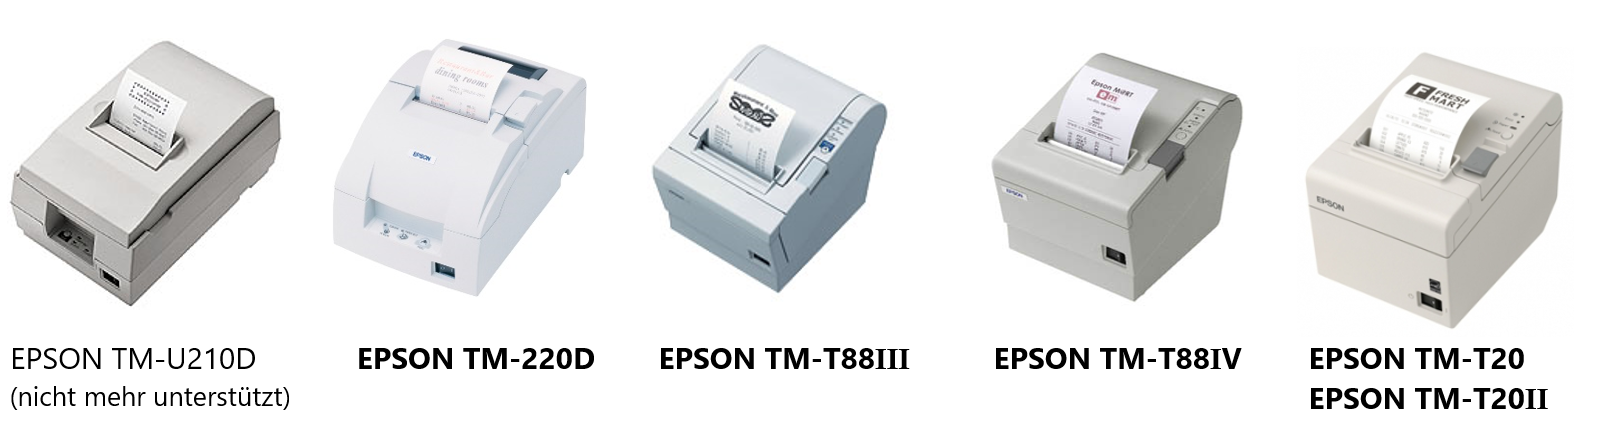
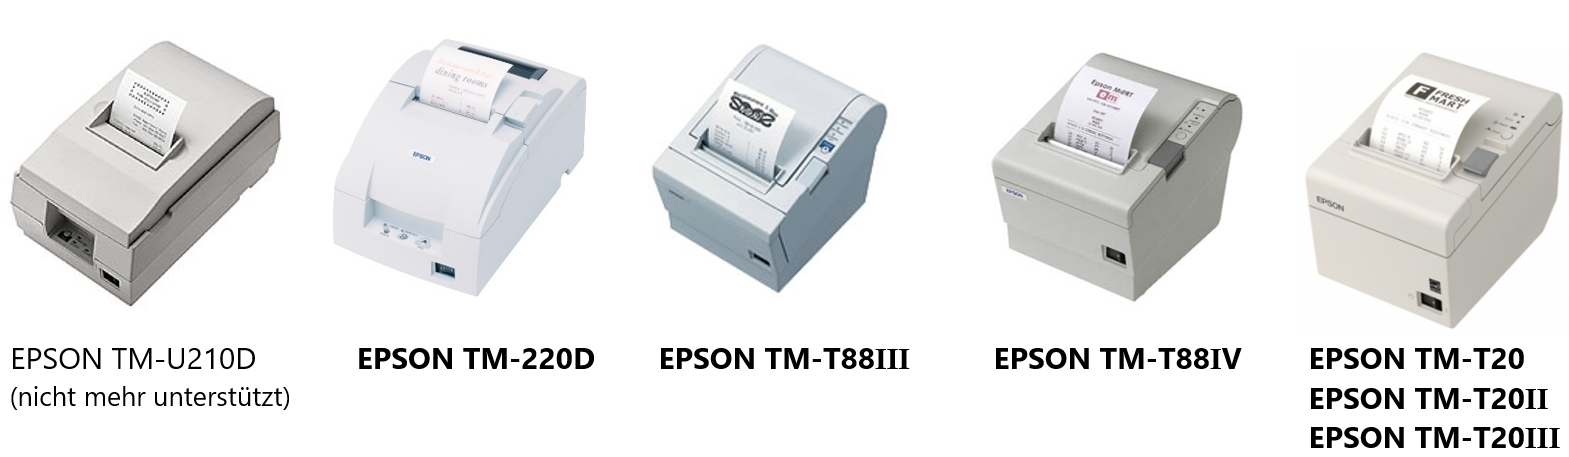
improve help pages

diff --git a/user/pages/06.etiketten-briefe/02.spielbarcodes-drucken/docs.de.md b/user/pages/06.etiketten-briefe/02.spielbarcodes-drucken/docs.de.md
@@ -15,7 +15,7 @@ Das **Barcode Drucken** Fenster kann über die **Übersicht => Drucken => Barcod
 Suchen Sie die Spiele mit Hilfe der gelben Suchfelder in der Spielliste und markieren Sie die gewünschten Spiele. Mehrere Spiele auf einmal können Sie durch Klicken und gleichzeitiges Halten der Taste **[Ctrl]** oder **[Shift]** auswählen.
 
 Die markierten Spiele können Sie durch Drücken des Pfeil Buttons in die Barcode Druckliste aufnehmen.   
-Mit den Buttons <span class="btn">Alle auswählen</span> und <span class="btn">Auswahl aufheben</span> können alle Elemente in der Liste an bzw. abwählt werden.
+Mit den Buttons <span class="btn-lupo">Alle auswählen</span> und <span class="btn-lupo">Auswahl aufheben</span> können alle Elemente in der Liste an bzw. abwählt werden.
 
 Folgende Sortier-Möglichkeiten stehen zur Verfügung:
 
@@ -24,11 +24,11 @@ Folgende Sortier-Möglichkeiten stehen zur Verfügung:
 
 !!! Verwenden Sie im Suchfeld das **Platzhalterzeichen * (Stern)** für beliebig viele, das **? (Fragezeichen)** für genau ein unbekanntes Zeichen. Beispiel: Wenn Sie alle Spiele mit dem Kaufdatum im Februar 2014 anzeigen wollen, können Sie **??.02.2014** oder ***.02.2014** eingeben.
 
-<span class="btn">Barcodeliste löschen</span> löscht alle in der Druckliste angezeigten Barcodes. Einzelne (oder mehrere) Einträge in der Liste können Sie durch markieren und anschliessendem Drücken von **[Del]** aus der Liste löschen.
+<span class="btn-lupo">Barcodeliste löschen</span> löscht alle in der Druckliste angezeigten Barcodes. Einzelne (oder mehrere) Einträge in der Liste können Sie durch markieren und anschliessendem Drücken von **[Del]** aus der Liste löschen.
 
-<span class="btn">Barcode Drucken</span> druckt die Barcodes der in der Druckliste aufgeführten Spiele auf den Standard-Drucker. Um einen anderen Drucker oder z.B. den manuellen Papiereinzug angeben zu können muss sie Liste in der Seitenansicht angezeigt werden. Wenn Sie den Ausdruck nicht beim ersten Barcode-Etikett beginnen wollen, können Sie das Etikett, bei welchem der Druck gestartet werden soll, in das Textfeld oben links eintragen.
+<span class="btn-lupo">Barcode Drucken</span> druckt die Barcodes der in der Druckliste aufgeführten Spiele auf den Standard-Drucker. Um einen anderen Drucker oder z.B. den manuellen Papiereinzug angeben zu können muss sie Liste in der Seitenansicht angezeigt werden. Wenn Sie den Ausdruck nicht beim ersten Barcode-Etikett beginnen wollen, können Sie das Etikett, bei welchem der Druck gestartet werden soll, in das Textfeld oben links eintragen.
 
-Es können nicht nur Barcodes für bestehende Spiele ausgedruckt werden, sondern für jede x-beliebige Nummer. Wenn Sie den Knopf <span class="btn">Manuelle Barcodes</span> drücken, werden Sie aufgefordert den Nummernbereich für die zu druckenden Strichcodes einzugeben.
+Es können nicht nur Barcodes für bestehende Spiele ausgedruckt werden, sondern für jede x-beliebige Nummer. Wenn Sie den Knopf <span class="btn-lupo">Manuelle Barcodes</span> drücken, werden Sie aufgefordert den Nummernbereich für die zu druckenden Strichcodes einzugeben.
 
 ## Abokarten drucken
 
@@ -40,13 +40,13 @@ Dieses Fenster kann mit **Übersicht => Drucken => Abokarten Drucken** geöffnet
 
 Suchen Sie die Adressen mit Hilfe der gelben Suchfelder unterhalb der Adressliste und markieren Sie die gewünschten Adressen. Mehrere auf einmal können Sie durch Klicken und gleichzeitiges Halten der Taste **[Ctrl]** oder **[Shift]** ausgewählt werden. Die gewählten Adressen können Sie durch Drücken des Pfeil Buttons in die Barcode Druckliste aufnehmen, einzelne Einträge durch einen Doppelklick.
 
-Mit den Buttons <span class="btn">Alle auswählen</span> und <span class="btn">Auswahl aufheben</span> können Sie alle Elemente in der Liste an bzw. abwählen.
+Mit den Buttons <span class="btn-lupo">Alle auswählen</span> und <span class="btn-lupo">Auswahl aufheben</span> können Sie alle Elemente in der Liste an bzw. abwählen.
 
  
 !!! Verwenden Sie im Suchfeld das **Platzhalterzeichen * (Stern)** für beliebig viele, das **? (Fragezeichen)** für genau ein unbekanntes Zeichen. Beispiel: Wenn Sie alle Kunden mit dem Eintrittsdatum im Februar 2014 anzeigen wollen, können Sie **??.02.2014** oder ***.02.2014** eingeben.
 
-<span class="btn">Druckliste löschen</span> löscht alle in der Druckliste angezeigten Barcodes. Einzelne (oder mehrere) Einträge in der Liste können Sie durch markieren und anschliessendem Drücken der Taste **[Del]** aus der Liste löschen.
+<span class="btn-lupo">Druckliste löschen</span> löscht alle in der Druckliste angezeigten Barcodes. Einzelne (oder mehrere) Einträge in der Liste können Sie durch markieren und anschliessendem Drücken der Taste **[Del]** aus der Liste löschen.
 
-<span class="btn">Barcode Drucken</span> druckt die Abokarten der in der Druckliste aufgeführten Adressen auf den Standard-Drucker. Um einen anderen Drucker oder z.B. den manuellen Papiereinzug angeben zu können muss die Liste in der Seitenansicht angezeigt werden. Wenn Sie den Ausdruck nicht beim ersten Barcode-Etikett beginnen wollen, können Sie das Etikett bei welchem der Druck gestartet werden soll in das Textfeld oben rechts eintragen.
+<span class="btn-lupo">Barcode Drucken</span> druckt die Abokarten der in der Druckliste aufgeführten Adressen auf den Standard-Drucker. Um einen anderen Drucker oder z.B. den manuellen Papiereinzug angeben zu können muss die Liste in der Seitenansicht angezeigt werden. Wenn Sie den Ausdruck nicht beim ersten Barcode-Etikett beginnen wollen, können Sie das Etikett bei welchem der Druck gestartet werden soll in das Textfeld oben rechts eintragen.
 
-<span class="btn">Manuelle Barcodes</span> druckt ‚leere' Kunden-Barcodes für Kundennummern die noch gar nicht vergeben sind. Sie werden aufgefordert den Nummernbereich für die zu druckenden Strichcodes einzugeben.
+<span class="btn-lupo">Manuelle Barcodes</span> druckt ‚leere' Kunden-Barcodes für Kundennummern die noch gar nicht vergeben sind. Sie werden aufgefordert den Nummernbereich für die zu druckenden Strichcodes einzugeben.

diff --git a/user/pages/05.spiele-und-adressen/01.spiele-erfassen-und-bearbeiten/docs.de.md b/user/pages/05.spiele-und-adressen/01.spiele-erfassen-und-bearbeiten/docs.de.md
@@ -1,5 +1,5 @@
 ---
-title: 'Spiele, Adressen und Mitarbeiter'
+title: 'Spiele erfassen und bearbeiten'
 taxonomy:
     category:
         - docs
@@ -110,7 +110,7 @@ Zu jedem Spiel kann eine Bilddatei hinterlegt werden. Es ist erlaubt grosse Date
 
 ![bild](../../images/bild.png)
 
-Wenn ein Spielfoto mit der <span class="btn">Google-Bildersuche</span> im Internet gefunden haben, dann kann dieses mit der **rechten Maustaste => Kopieren** in die Zwischenablage kopiert werden. Der Knopf <span class="btn">Zwischenablage</span> speichert dann das Bild automatisch mit dem korrekten Dateinamen. Ein Foto des Spiels mit dem Index 0 gilt für alle Spielkinder.
+Wenn ein Spielfoto mit der <span class="btn-lupo">Google-Bildersuche</span> im Internet gefunden haben, dann kann dieses mit der **rechten Maustaste => Kopieren** in die Zwischenablage kopiert werden. Der Knopf <span class="btn-lupo">Zwischenablage</span> speichert dann das Bild automatisch mit dem korrekten Dateinamen. Ein Foto des Spiels mit dem Index 0 gilt für alle Spielkinder.
 
 #### Jedem Spielkind kann zugeordnet werden:
 
@@ -141,7 +141,7 @@ Das Kaufdatum des Spiels. Es wird automatisch das heutige Datum vorgeschlagen.
 Tragen Sie hier den Kaufpreis des Spiels ein. Dieser Betrag wird für die Berechnung des Restwertes (Kaufpreis – Summe aller Ausleihgebühren) verwendet.
 
 !!! **Hinweis**  
-Der Kaufpreis wird nicht ins Journal eingetragen. Wollen Sie Ihre Spieleinkäufe in der LUPO-Buchhaltung erfassen, dann müssen Sie dies über das Einzelbuchung (mit Vorgaben) Fenster (Öffnen über Übersicht -> Buchhaltung -> Einzelbuchung (mit Vorgaben)) verbuchen
+!!! Der Kaufpreis wird nicht ins Journal eingetragen. Wollen Sie Ihre Spieleinkäufe in der LUPO-Buchhaltung erfassen, dann müssen Sie dies über das Einzelbuchung (mit Vorgaben) Fenster (Öffnen über Übersicht -> Buchhaltung -> Einzelbuchung (mit Vorgaben)) verbuchen
 
 #### Katalogpreis
 
@@ -157,7 +157,7 @@ Dieser Memotext wird im **Ausleihen / Zurücknehmen** Fenster in der Spielliste 
 
 ### Spielinhalt erfassen und drucken
 
-Sie können für jedes Spiel den Spielinhalt (die Ausstattung) erfassen. Schreiben Sie dazu den Text in das dafür vorgesehene Feld oder betätigen Sie den Button <span class="btn">Spielinhalt zusammenbauen</span> um das Spielinhalt-Fenster in Grossansicht angezeigt zu bekommen.
+Sie können für jedes Spiel den Spielinhalt (die Ausstattung) erfassen. Schreiben Sie dazu den Text in das dafür vorgesehene Feld oder betätigen Sie den Button <span class="btn-lupo">Spielinhalt zusammenbauen</span> um das Spielinhalt-Fenster in Grossansicht angezeigt zu bekommen.
 
 In diesem Fenster wird der Spielinhalt erfasst. Sie können den Inhalt ausdrucken um danach am Spiel zu befestigen.
 
@@ -169,11 +169,11 @@ Durch Doppelklicken auf die Inhalt-Datenzeile wird der Eintrag dem Spielinhalt h
 
 Wenn Sie die dortigen Vorgaben nicht benötigen kann der Spielinhalt auch direkt in diesem Fenster erfasst und ausgedruckt werden.
 
-<span class="btn">Drucken</span> / <span class="btn">Anzeigen</span> gibt den Spielinhalt im ausgewählten Format auf den Drucker / Seitenansicht aus. Das standardmässig vorgeschlagene Ausgebeformat ist in den Einstellungen definiert.
+<span class="btn-lupo">Drucken</span> / <span class="btn-lupo">Anzeigen</span> gibt den Spielinhalt im ausgewählten Format auf den Drucker / Seitenansicht aus. Das standardmässig vorgeschlagene Ausgebeformat ist in den Einstellungen definiert.
 
 ### Neues Spiel (Neue Spielfamilie)
 
-Um ein neues Spiel zu erfassen müssen Sie den Button <span class="btn">Neue Spielfamilie</span> im Spiele Fenster drücken.
+Um ein neues Spiel zu erfassen müssen Sie den Button <span class="btn-lupo">Neue Spielfamilie</span> im Spiele Fenster drücken.
 
 ![spielfamilie-erfassen](../../images/spielfamilie-erfassen.png)
 
@@ -181,7 +181,7 @@ Wählen Sie die Spielart des neuen Spiels aus.
 
 Falls Sie dem neuen Spiel eine andere als die vom Computer vorgeschlagene Nummer geben wollen, können Sie diese in das Nummer-Textfeld schreiben. Existiert Ihre Nummer bereits, erscheint eine Fehlermeldung.
 
-Mit <span class="btn">OK</span> wird das neue Spiel gespeichert.
+Mit <span class="btn-lupo">OK</span> wird das neue Spiel gespeichert.
 
 ### Neues Spielkind
 

diff --git a/user/pages/11.anhang/09.epson-bondrucker/docs.de.md b/user/pages/11.anhang/09.epson-bondrucker/docs.de.md
@@ -8,9 +8,9 @@ visible: true
 
 ## EPSON Bondrucker installieren
 
-Diese Installationsanleitung gilt für die EPSON-Drucker **TM-U220D / TM-T88III / TM-T88IV / TM-T20 / TM-T20II** Der Bondrucker wird direkt über die OPOS / UPOS Schnittstelle angesteuert und muss nicht als Windows-Drucker installiert werden. Es ist korrekt, wenn in der Systemsteuerung unter Geräte und Drucker der Bondrucker nicht aufgelistet ist.
+Diese Installationsanleitung gilt für die EPSON-Drucker **TM-U220D / TM-T88III / TM-T88IV / TM-T20 / TM-T20II / TM-T20III** Der Bondrucker wird direkt über die OPOS / UPOS Schnittstelle angesteuert und muss nicht als Windows-Drucker installiert werden. Der Drucker muss bei den Windows-Einstellungen unter **Drucker & Scanner** nicht aufgelistet sein.
 
-#### EPSON OPOS ADK 2.80 installieren
+#### EPSON OPOS ADK 3.0 installieren
 
 Die Bondrucker-Software kann zusammen mit den LUPO-Programmdateien installiert werden. Wählen Sie dazu im LUPO Installationsassistent das Häkchen **EPSON Bondrucker** an:
 
@@ -19,12 +19,12 @@ Die Bondrucker-Software kann zusammen mit den LUPO-Programmdateien installiert w
 Falls bereits eine aktuelle LUPO-Version installiert ist, dann kann das Programm zur Ansteuerung des Druckers auch von unserer Webseite heruntergeladen werden: 
 
 !! **SetupPOS Version 2.5 oder älter **  
-Wenn eine ältere Version des Bondrucker-Treibers installiert ist, z.B. für den TM-T210D Drucker, dann muss diese zuerst deinstalliert werden. Das «darüber installieren» der Version 2.8 funktioniert nicht.
+!! Wenn eine ältere Version des Bondrucker-Treibers installiert ist, z.B. für den TM-T210D Drucker, dann muss diese zuerst deinstalliert werden. Das «darüber installieren» der Version 3.0 funktioniert nicht.
 
-.
+
 
 !! **Windows Drucker**  
-Der Drucker wird direkt aus LUPO über spezielle Drucker-Kommandos angesteuert. Es muss NICHT als Windows-Drucker (unter Drucker und Scanner) installiert werden.
+!! Der Drucker wird direkt aus LUPO über spezielle Drucker-Kommandos angesteuert. Es muss NICHT als Windows-Drucker (unter Drucker und Scanner) installiert werden.
 
 #### Druckertreiber konfigurieren
 
@@ -36,15 +36,15 @@ Mit einem Klick auf das Symbol ganz links (Add New Device) öffnet sich folgende
 
 ![Druckmodell_hinzufuegen](../../images/Druckmodell_hinzufuegen.png)
 
-1. **Ihr Druckermodell auswählen:** TM-U220D TM-T88III TM-T88IV TM-T20 TM-T20II
-2. **Ihr Druckermodell schreiben:** TM-U220D TM-T88III TM-T88IV TM-T20 TM-T20II
+1. **Ihr Druckermodell auswählen:** TM-U220D TM-T88III TM-T88IV TM-T20 TM-T20II TM-T20III
+2. **Ihr Druckermodell schreiben:** TM-U220D TM-T88III TM-T88IV TM-T20 TM-T20II TM-T20III
 3. **Weiter mit Next**
 
 ![druckmodell_testen](../../images/druckmodell_testen.png)
 
-4\. **Drucker testen.** Öffnet ein Fenster zum Testen des Druckers. Werden beim Klicken auf **Start** einige Zeilen gedruckt, so ist der Druckertreiber korrekt installiert.
+4. **Drucker testen.** <span class="btn-lupo">CheckHealth Interactive</span> öffnet ein Fenster zum Testen des Druckers. Werden beim Klicken auf **Start** einige Zeilen gedruckt, so ist der Druckertreiber korrekt installiert.
 
-Wenn bei TMPORT Settings „(none)" steht, dann muss ein Port ausgewählt werden oder mit <span class="btn">Make Port</span> ein neuer erstellt werden. Mit <span class="btn">Finish</span> wird die Installation abgeschlossen.
+Wenn bei TMPORT Settings „(none)" steht, dann muss ein Port ausgewählt werden oder mit <span class="btn-lupo">Make Port</span> ein neuer erstellt werden. Mit <span class="btn-lupo">Finish</span> wird die Installation abgeschlossen.
 
 #### LUPO konfigurieren
 

diff --git a/user/pages/11.anhang/04.lupo-admin/docs.de.md b/user/pages/11.anhang/04.lupo-admin/docs.de.md
@@ -16,7 +16,7 @@ Diese Funktionen sollten nur von erfahrenen LUPO- und Computerbenutzern verwende
 
 #### Alte Adressen löschen
 
-Mit dieser Funktion werden alle Adressen deren Abo-Enddatum kleiner als Ihre Eingabe ist auf den Status gelöscht gesetzt. Gelöschte Adressen können im Kunden-Fenster mit <span class="btn">Nur Gelöschte Adressen anzeigen</span> angezeigt und wieder aktiviert (wiederhergestellt) werden.
+Mit dieser Funktion werden alle Adressen deren Abo-Enddatum kleiner als Ihre Eingabe ist auf den Status gelöscht gesetzt. Gelöschte Adressen können im Kunden-Fenster mit <span class="btn-lupo">Nur Gelöschte Adressen anzeigen</span> angezeigt und wieder aktiviert (wiederhergestellt) werden.
 
 #### Adressen endgültig löschen
 
@@ -91,7 +91,7 @@ Scanner von Datalogic (Touch / QuickScan Mobile / Gryphon) können so programmie
 
 Mit dem Barcode-Handler kann das Verhalten von LUPO beim Verarbeiten von gescannten Barcodes definiert werden. Ist Freier Code gesetzt können x-beliebige Codes mit einem Kunden oder Spiel gepaart werden (z.B. der EAN Produktecode eines Spieles oder der Migros-Cumulus Strichcode zur Identifikation des Kunden). In diesem Modus muss der Barcodescanner so konfiguriert werden, dass neben dem $ auch noch das Zeichen X als Preamble gesendet wird.
 
-Der Knopf <span class="btn">Barcode Befehle</span> anzeigen druckt die verfügbaren Barcode-Befehle auf Etiketten im Format Zweckform 3664 (LUPO-Standardgrösse).
+Der Knopf <span class="btn-lupo">Barcode Befehle</span> anzeigen druckt die verfügbaren Barcode-Befehle auf Etiketten im Format Zweckform 3664 (LUPO-Standardgrösse).
 
 #### Bondrucker
 
@@ -99,7 +99,7 @@ Wird der Bondrucker synchron angesteuert (Syncmode=True), dann ist das LUPO wäh
 
 Wird von einem Computer ohne Bondrucker ein Bon gedruckt landet dieser in einer Warteschlange, welche vom PC mit angeschlossenem Bondrucker in einem bestimmten Intervall abgefragt wird. Bei einem kleinen Abfrageintervall (< 1000ms) kann das System spürbar träge werden, bei einem grossen Wert (>5000ms) dauert es zu lange vom Befehl zum Drucken des Bons bis zur tatsächlichen Ausgabe. Ein guter Wert ist 1500ms.
 
-Der Knopf <span class="btn">TEST-printout full ASCII</span> druckt einen Bon mit dem gesamten Zeichensatz des Bondruckers. Diese Funktion ist hilfreich wenn Sonderzeichen wie z.B. Umlaute falsch dargestellt werden.
+Der Knopf <span class="btn-lupo">TEST-printout full ASCII</span> druckt einen Bon mit dem gesamten Zeichensatz des Bondruckers. Diese Funktion ist hilfreich wenn Sonderzeichen wie z.B. Umlaute falsch dargestellt werden.
 
 Die **SetupPOS** Software für einen EPSON oder Bixolon Bondrucker kann durch Drücken des entsprechenden Knopfes gestartet werden. Eine detaillierte Anleitung zum Konfigurieren der OPOS-Druckertreiber entnehmen Sie bitte der separaten Anleitung.
 

diff --git a/user/pages/06.etiketten-briefe/01.etiketten-und-briefe-drucken/docs.de.md b/user/pages/06.etiketten-briefe/01.etiketten-und-briefe-drucken/docs.de.md
@@ -14,7 +14,7 @@ Das **Spielinhalt Drucken** Fenster kann über die **Übersicht => Drucken => Sp
 
 Suchen Sie die Spiele mit Hilfe der gelben Suchfelder in der Spielliste und markieren Sie die gewünschten Spiele. Mehrere Spiele auf einmal können Sie durch Klicken und gleichzeitiges Halten von **[Ctrl]** auswählen. Die markierten Spiele werden durch Drücken des Pfeil Buttons in die Barcode Druckliste aufgenommen.
 
-Mit den Buttons <span class="btn">Alle auswählen</span> und <span class="btn">Auswahl aufheben</span> können Sie alle Elemente in der Liste an bzw. abwählen.
+Mit den Buttons <span class="btn-lupo">Alle auswählen</span> und <span class="btn-lupo">Auswahl aufheben</span> können Sie alle Elemente in der Liste an bzw. abwählen.
 
 Folgende Sortier-Möglichkeiten stehen zur Verfügung:
 
@@ -26,6 +26,6 @@ Folgende Sortier-Möglichkeiten stehen zur Verfügung:
 
 Definieren Sie die Schriftart, -grösse und das Format des Spielinhaltes. In den Einstellungen können die Vorgabewerte definiert werden.
 
-<span class="btn">Druckliste löschen</span> löscht alle in der Druckliste angezeigten Spiele. Einzelne (oder mehrere) Einträge in der Liste können Sie durch markieren und anschliessendem Drücken von **[Del]** aus der Liste löschen.
+<span class="btn-lupo">Druckliste löschen</span> löscht alle in der Druckliste angezeigten Spiele. Einzelne (oder mehrere) Einträge in der Liste können Sie durch markieren und anschliessendem Drücken von **[Del]** aus der Liste löschen.
 
-<span class="btn">Spielinhalt drucken</span> druckt die Barcodes der in der Druckliste aufgeführten Spiele auf den Standard-Drucker. Um einen anderen Drucker oder z.B. den manuellen Papiereinzug angeben zu können, öffnen Sie das Dokument mit <span class="btn">Anzeigen</span>. Falls als Ausgabeformat ein Etikett gewählt wurde, kann angegeben werden, bei welcher Etiketten-Position der Druck beginnen soll.
+<span class="btn-lupo">Spielinhalt drucken</span> druckt die Barcodes der in der Druckliste aufgeführten Spiele auf den Standard-Drucker. Um einen anderen Drucker oder z.B. den manuellen Papiereinzug angeben zu können, öffnen Sie das Dokument mit <span class="btn-lupo">Anzeigen</span>. Falls als Ausgabeformat ein Etikett gewählt wurde, kann angegeben werden, bei welcher Etiketten-Position der Druck beginnen soll.

diff --git a/user/pages/08.statistik-listen/02.adressen/docs.de.md b/user/pages/08.statistik-listen/02.adressen/docs.de.md
@@ -10,7 +10,7 @@ Die Liste zeigt alle aktiven Adressen. Gelöschte Adressen werden nicht angezeig
 
 ![aktive-adressen](../../images/aktive-adressen.png)
 
-Mit <span class="btn">Adress-Etiketten Zweckform 3664</span> werden alle angezeigten Adressen (ihr Filter wird beachtet!) in Seitenansicht zum Drucken auf Etiketten angezeigt.
+Mit <span class="btn-lupo">Adress-Etiketten Zweckform 3664</span> werden alle angezeigten Adressen (ihr Filter wird beachtet!) in Seitenansicht zum Drucken auf Etiketten angezeigt.
 
 
 !!!! In allen Listen können Sie die Datensätze sortieren und filtern und in die Zwischenablage kopieren. Um den Listeninhalt zu kopieren, markieren Sie alle Datensätze indem Sie auf die linke Ecke oben in der Liste klicken. Danach drücken Sie <kbd>Ctrl</kbd>+<kbd>c</kbd> um die Daten in die Zwischenablage zu kopieren und danach in ein anderes Programm wie z.B. Word oder Excel um und von dort her formatiert auszudrucken, als Serienbrief-Datenquelle oder sonst wie zu nutzen.
@@ -25,7 +25,7 @@ Bestimmen sie durch ankreuzen der entsprechenden Optionen welche Adressen angeze
 
 ### Email Massenversand
 
-Wenn Sie auf <span class="btn">Emailadressen kopieren</span> klicken, werden Sie aufgefordert die Paketgrösse der Emailadressen anzugeben. Die meisten Emailanbieter akzeptieren nur eine bestimmte Anzahl Email-Adressen in einem Email (zum Schutz vor Spamversand). Geben Sie deshalb eine Zahl kleiner als 100 ein. Es werden alle Emailadressen der Adressliste in Blöcke an X Emailadressen aufgelistet. Erstellen Sie für jeden Block eine einzelne Email. Die Emailadressen sollten Sie in das BCC-Feld (Blindkopie) kopieren.
+Wenn Sie auf <span class="btn-lupo">Emailadressen kopieren</span> klicken, werden Sie aufgefordert die Paketgrösse der Emailadressen anzugeben. Die meisten Emailanbieter akzeptieren nur eine bestimmte Anzahl Email-Adressen in einem Email (zum Schutz vor Spamversand). Geben Sie deshalb eine Zahl kleiner als 100 ein. Es werden alle Emailadressen der Adressliste in Blöcke an X Emailadressen aufgelistet. Erstellen Sie für jeden Block eine einzelne Email. Die Emailadressen sollten Sie in das BCC-Feld (Blindkopie) kopieren.
 
 Falls Sie im Adress-Datenblatt einen Filter gesetzt haben wird dieser berücksichtigt.
 

diff --git a/user/pages/04.spiele-ausleihen/04.spiele-ausleihen/docs.de.md b/user/pages/04.spiele-ausleihen/04.spiele-ausleihen/docs.de.md
@@ -10,7 +10,7 @@ Die Spiele, welche Sie ausleihen, werden der Spielliste des aktuellen Kunden hin
 
 #### Ausleihen Button
 
-Leiht das in das Spielnummerfeld eingetragene Spiel aus. Klicken Sie dazu auf den <span class="btn">Ausleihen</span> Button oder drücken Sie die <kbd>Enter</kbd>\- Taste.
+Leiht das in das Spielnummerfeld eingetragene Spiel aus. Klicken Sie dazu auf den <span class="btn-lupo">Ausleihen</span> Button oder drücken Sie die <kbd>Enter</kbd>\- Taste.
 
 Falls Sie mit Barcodes arbeiten kann beim Einscannen irgendein Feld im Ausleihfenster aktiv sein. Der Cursor muss vor dem Scannen nicht in das Spiel-Suchfeld gesetzt werden.
 
@@ -27,7 +27,7 @@ Die maximale Anzahl Spiele und / oder eSpiele pro Kunde kann eingeschränkt werd
 
 Mit Hilfe einer Spezial-Ausleihe kann ein Spiel mit einer **veränderten Ausleihdauer und einer veränderten Gebühr** in einem Schritt ausgeliehen werden.
 
-Durch Drücken auf den Knopf <span class="btn"> Spezial Ausleihe </span> oder wenn das Häkchen Spezial-Ausleihe aktiviert ist, wird vor der Spielausleihe folgendes Fenster angezeigt:
+Durch Drücken auf den Knopf <span class="btn-lupo"> Spezial Ausleihe </span> oder wenn das Häkchen Spezial-Ausleihe aktiviert ist, wird vor der Spielausleihe folgendes Fenster angezeigt:
 
 ![ausleihoptionen](../../images/ausleihoptionen.png)
 
@@ -39,7 +39,7 @@ Wenn beim Spiel die Eigenschaft Einzelteil gesetzt ist, erscheint beim Ausleihen
 
 ![einzelteile](../../images/einzelteile.png)
 
-Geben Sie die Anzahl Stück ein und drücken Sie <span class="btn"> Ausleihen </span>. Die Spielgebühr wird mit der Stückzahl multipliziert und dem Kunden verrechnet. Die Anzahl wird ins Spielkind-Memo geschrieben.
+Geben Sie die Anzahl Stück ein und drücken Sie <span class="btn-lupo"> Ausleihen </span>. Die Spielgebühr wird mit der Stückzahl multipliziert und dem Kunden verrechnet. Die Anzahl wird ins Spielkind-Memo geschrieben.
 
 #### Stempeldatum manuell ändern
 

diff --git a/user/pages/04.spiele-ausleihen/06.ausleihdauer-verlangern/docs.de.md b/user/pages/04.spiele-ausleihen/06.ausleihdauer-verlangern/docs.de.md
@@ -6,7 +6,7 @@ taxonomy:
 visible: true
 ---
 
-Klicken Sie auf <span class="btn">Verlängern</span> im Spiele Ausleihen und Zurücknehmen Fenster um den folgenden Dialog angezeigt zu bekommen:
+Klicken Sie auf <span class="btn-lupo">Verlängern</span> im Spiele Ausleihen und Zurücknehmen Fenster um den folgenden Dialog angezeigt zu bekommen:
 
 ![spiele-verlaengern](../../images/spiele-verlaengern.png)
 
@@ -16,13 +16,13 @@ Falls reservierte Spiele vorhanden sind erscheint zuerst folgende Meldung:
 
 Danach sind in der Spalte Info die Besonderheiten wie Ferien oder Reservationen des Spieles ersichtlich.
 
-Der Knopf <span class="btn">Markierte Spiele verlängern</span> am unteren Fensterrand ändert das Rückgabedatum der markierten Spiele auf das beim Spiel in der Spalte Verlängern bis aufgelistete Datum.
+Der Knopf <span class="btn-lupo">Markierte Spiele verlängern</span> am unteren Fensterrand ändert das Rückgabedatum der markierten Spiele auf das beim Spiel in der Spalte Verlängern bis aufgelistete Datum.
 
 Die Spielgebühr wird dem Ausleihkonto verrechnet, ist dieses leer **(Null)**, dem Kundenkonto.
 
 #### Spezielle Verlängerungen
 
-Klicken Sie auf <span class="btn">Spezielle Verlängerungen</span> um weitere Optionen zur Verlängerung anzuzeigen. Um eine spezielle Verlängerung anzuwenden, verwenden Sie den entsprechenden Knopf.
+Klicken Sie auf <span class="btn-lupo">Spezielle Verlängerungen</span> um weitere Optionen zur Verlängerung anzuzeigen. Um eine spezielle Verlängerung anzuwenden, verwenden Sie den entsprechenden Knopf.
 
 !!! Beachten Sie auch Möglichkeiten in den **Einstellungen => Ausleihen**. Je nach Konfiguration wird das neue Rückgabedatum aus dem alten + 28 Tage berechnet oder es wird das aktuell eingestellte Stempeldatum verwendet.
 

diff --git a/user/pages/04.spiele-ausleihen/08.kunden-und-ausleihkonto/docs.de.md b/user/pages/04.spiele-ausleihen/08.kunden-und-ausleihkonto/docs.de.md
@@ -28,7 +28,7 @@ Falls Sie LUPO mit der Option Bondrucker installiert haben, besteht die Möglich
 
 ### Einnahmen und Rückerstattungen
 
-Mit dem Button <span class="btn">Einnahmen und Rückerstattungen</span> öffnen Sie das Fenster **Buchung für Kunde**.
+Mit dem Button <span class="btn-lupo">Einnahmen und Rückerstattungen</span> öffnen Sie das Fenster **Buchung für Kunde**.
 
 In diesem Fenster kann dem Kunden (z.B. für ein verlorenes Spiel) ein Betrag verrechnet oder gutgeschrieben werden.
 
@@ -38,7 +38,7 @@ Die Buchungen, welche Sie erfassen werden dem Kunden- oder Ausleihkonto belastet
 
 Um dem Kunden eine Gutschrift zu machen, wählen Sie im Auswahlfeld rechts des Betrages Betrag dem Kundenkonto gutschreiben oder schreiben Sie eine negative Zahl in Feld.
 
-<span class="btn">Buchen</span> speichert die Buchung und verrechnet den Betrag dem Kunden. Der Buchungstext kann automatisch ins Kundenmemo übertragen werden.
+<span class="btn-lupo">Buchen</span> speichert die Buchung und verrechnet den Betrag dem Kunden. Der Buchungstext kann automatisch ins Kundenmemo übertragen werden.
 
 ! **Einstellung**  
 Die Buchungs-Vorgaben können im Fenster **Übersicht => Buchhaltung => Buchungstexte** bearbeiten definiert werden.
@@ -57,7 +57,7 @@ Druckt alle Buchungen eines definierten Zeitraums auf den Bondrucker aus.
 
 #### Markierte Buchung stornieren
 
-Markieren Sie eine Buchung in der Liste und klicken Sie auf den Knopf <span class="btn">Markierte Buchung stornieren</span> um die ausgewählte Buchung zu stornieren.
+Markieren Sie eine Buchung in der Liste und klicken Sie auf den Knopf <span class="btn-lupo">Markierte Buchung stornieren</span> um die ausgewählte Buchung zu stornieren.
 
 ![buchung-stornieren](../../images/buchung-stornieren.png)
 

diff --git a/user/pages/04.spiele-ausleihen/03.kundendaten/docs.de.md b/user/pages/04.spiele-ausleihen/03.kundendaten/docs.de.md
@@ -21,9 +21,9 @@ Schreiben Sie am Anfang des Memos ein ! (Ausrufezeichen), um das Memo beim Aufru
 ! **Automatische Kundenmemos**  
 Beim Mahnen wird automatisch ein Memo geschrieben. Die kann in den Einstellungen deaktiviert werden.
 
-Der Knopf <span class="btn"> Kundengeschichte</span> zeigt alle Adressdetails und alle jemals vom Kunden ausgeliehenen Spiele an.
+Der Knopf <span class="btn-lupo"> Kundengeschichte</span> zeigt alle Adressdetails und alle jemals vom Kunden ausgeliehenen Spiele an.
 
-Mit <span class="btn"> Bon Drucken </span> wird ein Bon auf den Kassendrucker ausgegeben. Normalerweise muss dieser Knopf nicht gedrückt werden da der Bon automatisch beim Bezahlen ausgedruckt wird.
+Mit <span class="btn-lupo"> Bon Drucken </span> wird ein Bon auf den Kassendrucker ausgegeben. Normalerweise muss dieser Knopf nicht gedrückt werden da der Bon automatisch beim Bezahlen ausgedruckt wird.
 
 #### Brief drucken
 
@@ -33,7 +33,7 @@ Sie haben die Möglichkeit einen Brief mit den Ausleihen und optional den dazu a
 
 Um den Brieftext zu ändern muss in den **Briefeinstellungen** der Textkörper Quittung angepasst werden.
 
-Wird der Brieftext abgeändert speichert LUPO diesen und er wird beim nächsten Öffnen des Fensters wieder angezeigt. Mit <span class="btn">Standard-Texte laden</span> werden die in den Brief-Einstellungen definierten Texte geladen.
+Wird der Brieftext abgeändert speichert LUPO diesen und er wird beim nächsten Öffnen des Fensters wieder angezeigt. Mit <span class="btn-lupo">Standard-Texte laden</span> werden die in den Brief-Einstellungen definierten Texte geladen.
 
 #### Abonnement lösen
 

diff --git a/user/pages/04.spiele-ausleihen/02.kunden-erfassen-suchen-anzeigen/docs.de.md b/user/pages/04.spiele-ausleihen/02.kunden-erfassen-suchen-anzeigen/docs.de.md
@@ -27,13 +27,13 @@ Wird die Adressnummer eines gelöschten Kunden eingeben, erscheint folgende Meld
 
 #### Neuer Kunde erfassen
 
-Der Knopf <span class="btn">Neuer Kunde</span> öffnet das Fenster um eine Adresse zu erfassen. Die Adressnummer wird automatisch vorgeschlagen, kann aber verändert werden.
+Der Knopf <span class="btn-lupo">Neuer Kunde</span> öffnet das Fenster um eine Adresse zu erfassen. Die Adressnummer wird automatisch vorgeschlagen, kann aber verändert werden.
 
 ![kunde-erfassen](../../images/kunde-erfassen.png)
 
 Ist das Kontrollkästchen **Nach dem Speichern der Adresse ein Abo lösen** aktiviert, so öffnet sich automatisch das **Abo lösen** Fenster.
 
-<span class="btn">Barcode drucken</span> wird angezeigt, wenn Sie die Barcodes mit dem Etiketten-Drucker ausdrucken.
+<span class="btn-lupo">Barcode drucken</span> wird angezeigt, wenn Sie die Barcodes mit dem Etiketten-Drucker ausdrucken.
 
 Das LUPO-Programm prüft während der Eingabe der Adresse ob ein Duplikat vorhanden ist. Stimmen Name, Vorname und Strasse mit einer bereits gespeicherten Adresse überein, so erscheint folgende Meldung:
 

diff --git a/user/pages/09.einstellungen/02.briefeinstellung/docs.de.md b/user/pages/09.einstellungen/02.briefeinstellung/docs.de.md
@@ -12,7 +12,7 @@ Das Aussehen der Briefe Mahnbrief, Reservationsbrief und Infobrief kann (mit bes
 
 #### Schriftart und -grösse
 
-Die Schriftart und Grösse der Textfelder kann durch Klicken auf <span class="btn">A</span> angepasst werden. Bei Textfeldern ohne diesen Knopf kann die Schrift mit der Formatierungs-Symbolleiste angepasst werden.
+Die Schriftart und Grösse der Textfelder kann durch Klicken auf <span class="btn-lupo">A</span> angepasst werden. Bei Textfeldern ohne diesen Knopf kann die Schrift mit der Formatierungs-Symbolleiste angepasst werden.
 
 #### Logo im Briefkopf / Fuss auswählen
 
@@ -34,5 +34,4 @@ Die Anschrift (Adresse des Kunden) kann links oder rechts ausgerichtet werden un
 
 Die zwei grossen Textfelder und die Emailfelder können bei jedem Brief einen anderen Inhalt haben. Alle anderen Einstellungen gelten für jeden Brief.
 
-!!!
-Weitere Informationen zur Gestaltung der Briefe erhalten Sie, wenn Sie den <span class="btn">Musterbrief anzeigen</span>.
+!!! Weitere Informationen zur Gestaltung der Briefe erhalten Sie, wenn Sie den <span class="btn-lupo">Musterbrief anzeigen</span>.
